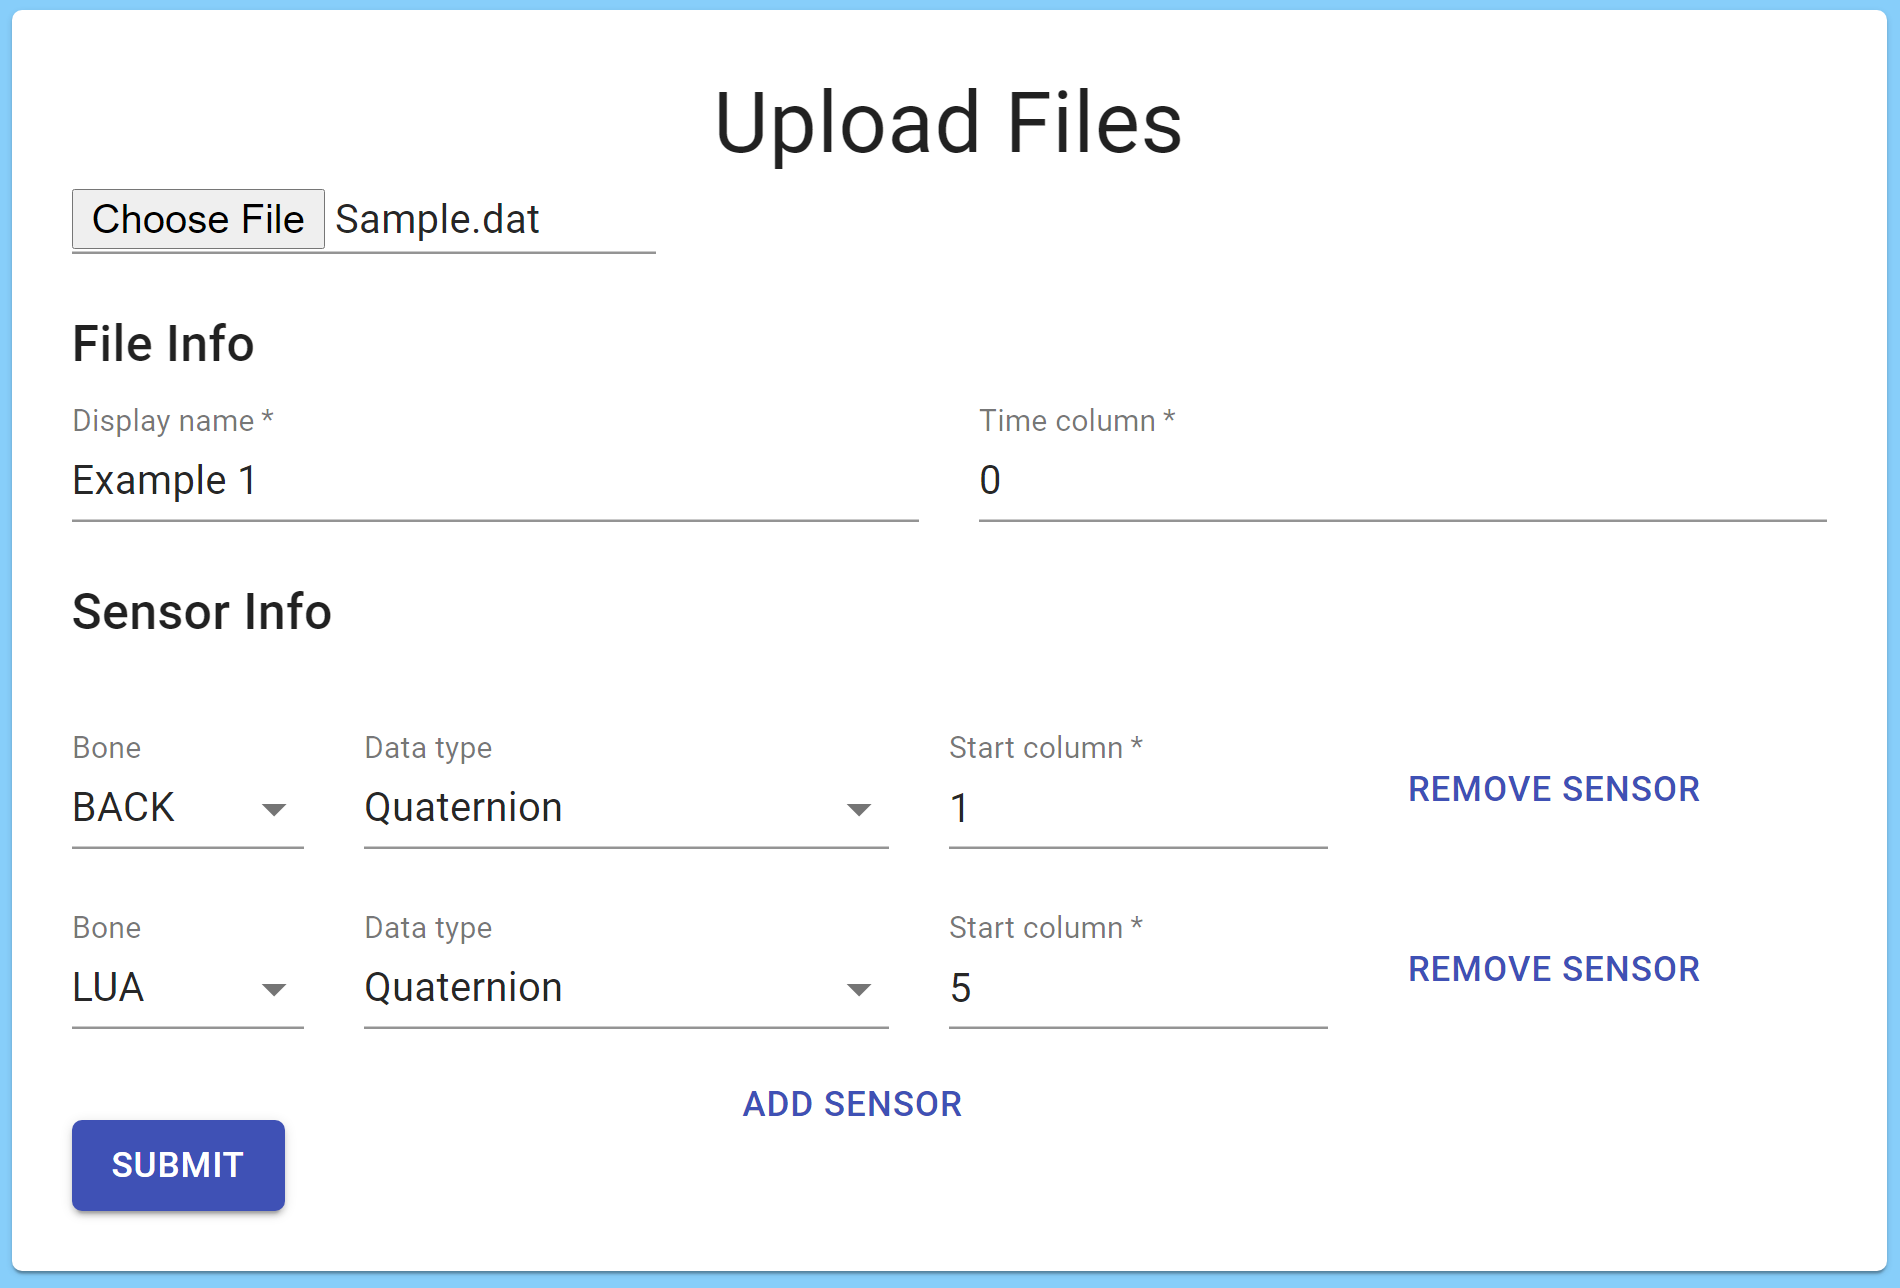
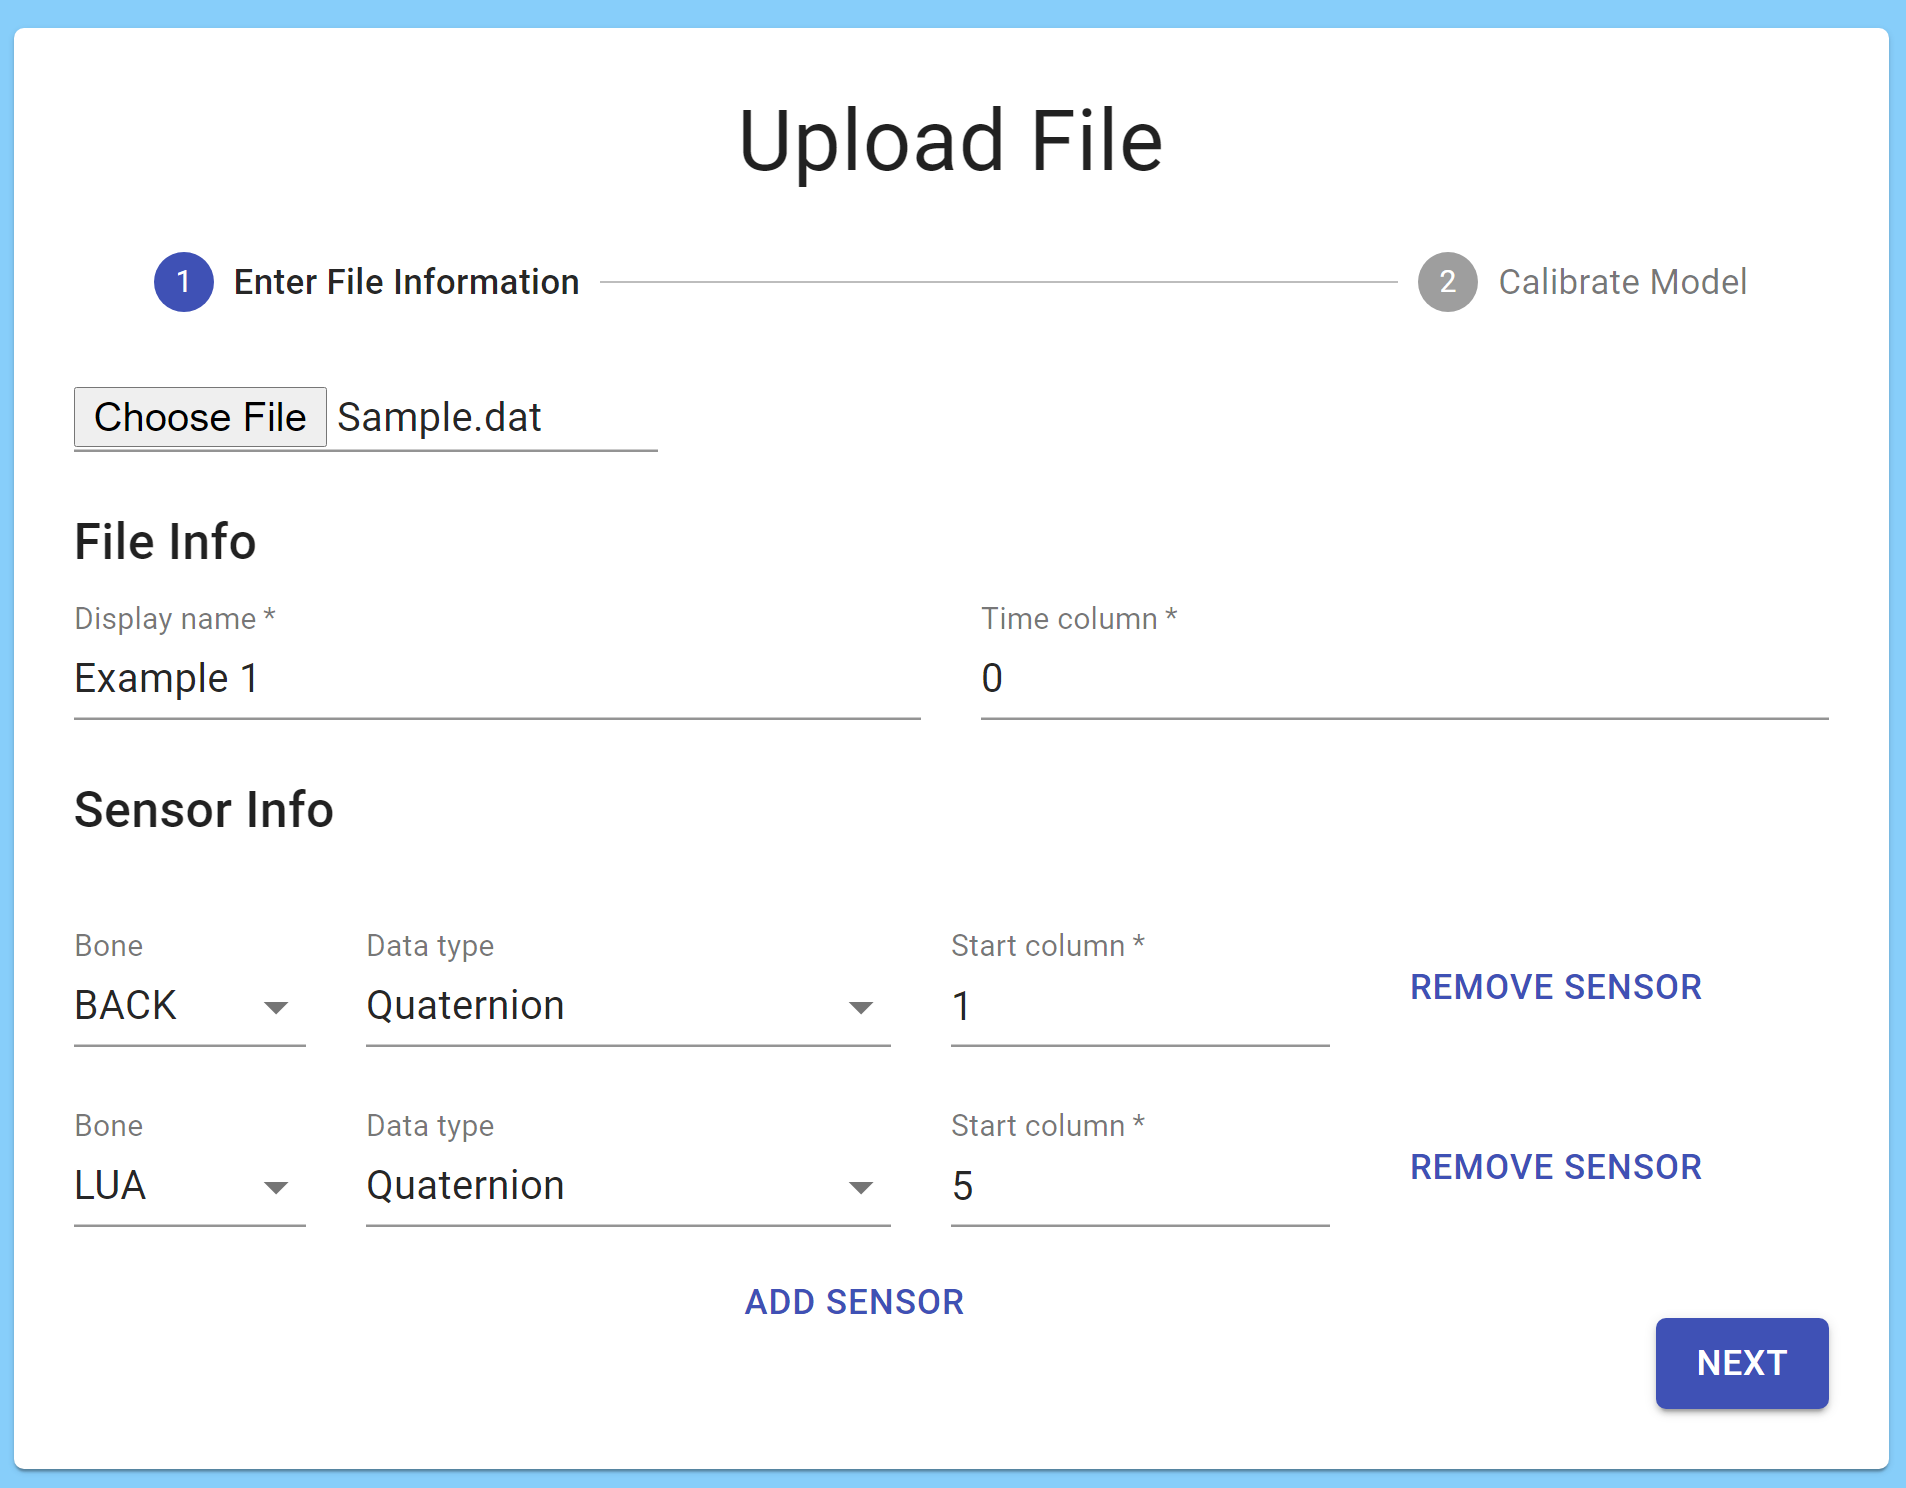
update getting started page

diff --git a/src/components/getting-started-screen/TutorialScreen.js b/src/components/getting-started-screen/TutorialScreen.js
@@ -5,7 +5,7 @@ import Button from '@material-ui/core/Button';
 import { makeStyles } from '@material-ui/core/styles';
 import example1 from './example1.PNG'
 import example2 from './example2.PNG'
-import coordsystem from './coordsystem.PNG'
+import example3 from './example3.PNG'
 import {useHistory} from 'react-router-dom'
 
 
@@ -82,11 +82,6 @@ export default function Tutorial() {
           </tbody>
         </table>
         </center>
-        <p>In additon, confirm that the orientations of the sensors match those depicted in the diagram below, It is very important that the sensors are aligned correctly or else the model's movements will be distorted.</p>
-        <center>    
-             <img src={coordsystem} width='30%'/>
-        </center>
- 
        
         <h2>File and Data Requirements</h2>
         <p>The Human Activity Visualizer requires a specific file format and only interprets certain types of sensor data. Before uploading your file, ensure that it meets the following format and data specifications. </p>
@@ -99,7 +94,7 @@ export default function Tutorial() {
         <p>The data in your file must:</p>
         <ul>
           <li>include time values in milliseconds</li>
-          <li>include global quaternions and/or acc+mag+gyro values taken over time<ul>
+          <li>include global quaternions, euler angles, or acc+mag+gyro values taken over time<ul>
               <li>Note: other measurement types can be included in the uploaded file but will be ignored</li>
             </ul>
           </li>
@@ -156,8 +151,17 @@ export default function Tutorial() {
         <p>For Example 2, you would input the following:</p>
         <img src={example2} width='50%'/> 
         </center>
-        <p>Check that all of the information has been entered correctly, and click the 'Submit" button at the bottom of the form. A landing screen will appear when the file has been successfully submitted. Select the file you want to view first and continue to the visualizer page. Once the file has downloaded, press the play button the in bottom left corner of your screen to begin the animation.</p>
-        <p>To view a different upload file, click on the hamburger icon in the top left corner and you will see the file directory. In the user-uploads folder, you will be able to access any additional files you uploaded. These files are only accessible by you but will be deleted from the server after two days.</p>
+        <p>Check that all of the information has been entered correctly, and click the 'Next' button at the bottom of the form and you will be taken the Quaternion Calibration screen. Here there will be a slider for each bone 
+          you selected in the last screen. </p>
+          <center>
+        <img src={example3} width='50%'/> 
+        </center>
+          <p>Use these sliders to set the identity or 'no rotation' position of the model. In terms of sensors, the 'no rotation' 
+          position is where the local coordinate system of each sensor is aligned with the global coordinate system. For example, if the
+          x-axis of the sensor points down a person's arm, the model must be transformed so its arm is pointing down the global x-axis. In this program, the positive x-axis points right, the y-axis points up, and the z-axis points out of the screen.
+        </p>
+        <p> When the 'identity' position of the model is set, click the 'Submit' button and your file will begin to process. This may take a few minutes. You will then be taken to the Visualizer Screen where you can view your dataset.</p>
+        <p>To view a different upload file, click on the hamburger icon in the top left corner and you will see the file directory. In the user-uploads folder, you will be able to access any additional files that you uploaded.</p>
         <Button color='primary' variant= 'contained' id = "submitButton" onClick={()=>returnHome()}>Return Home to Get Started</Button>
 
       
